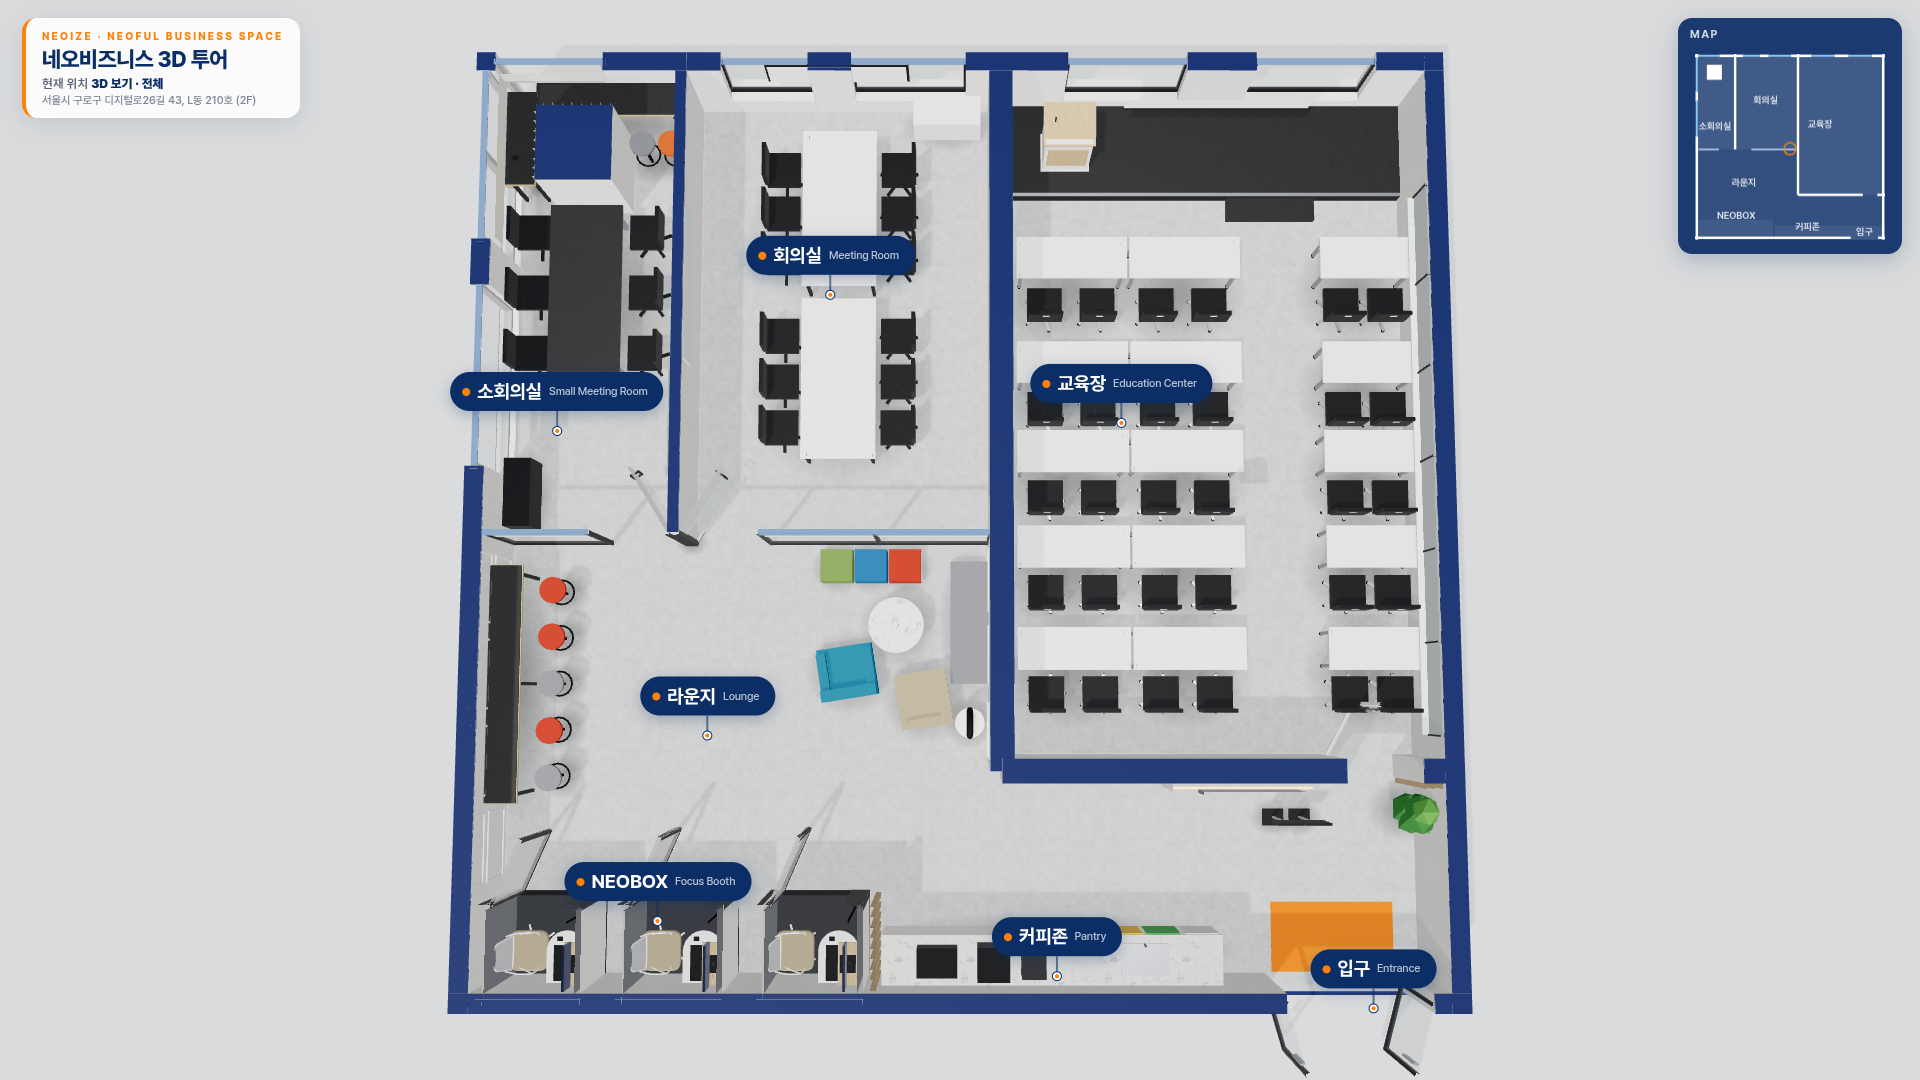
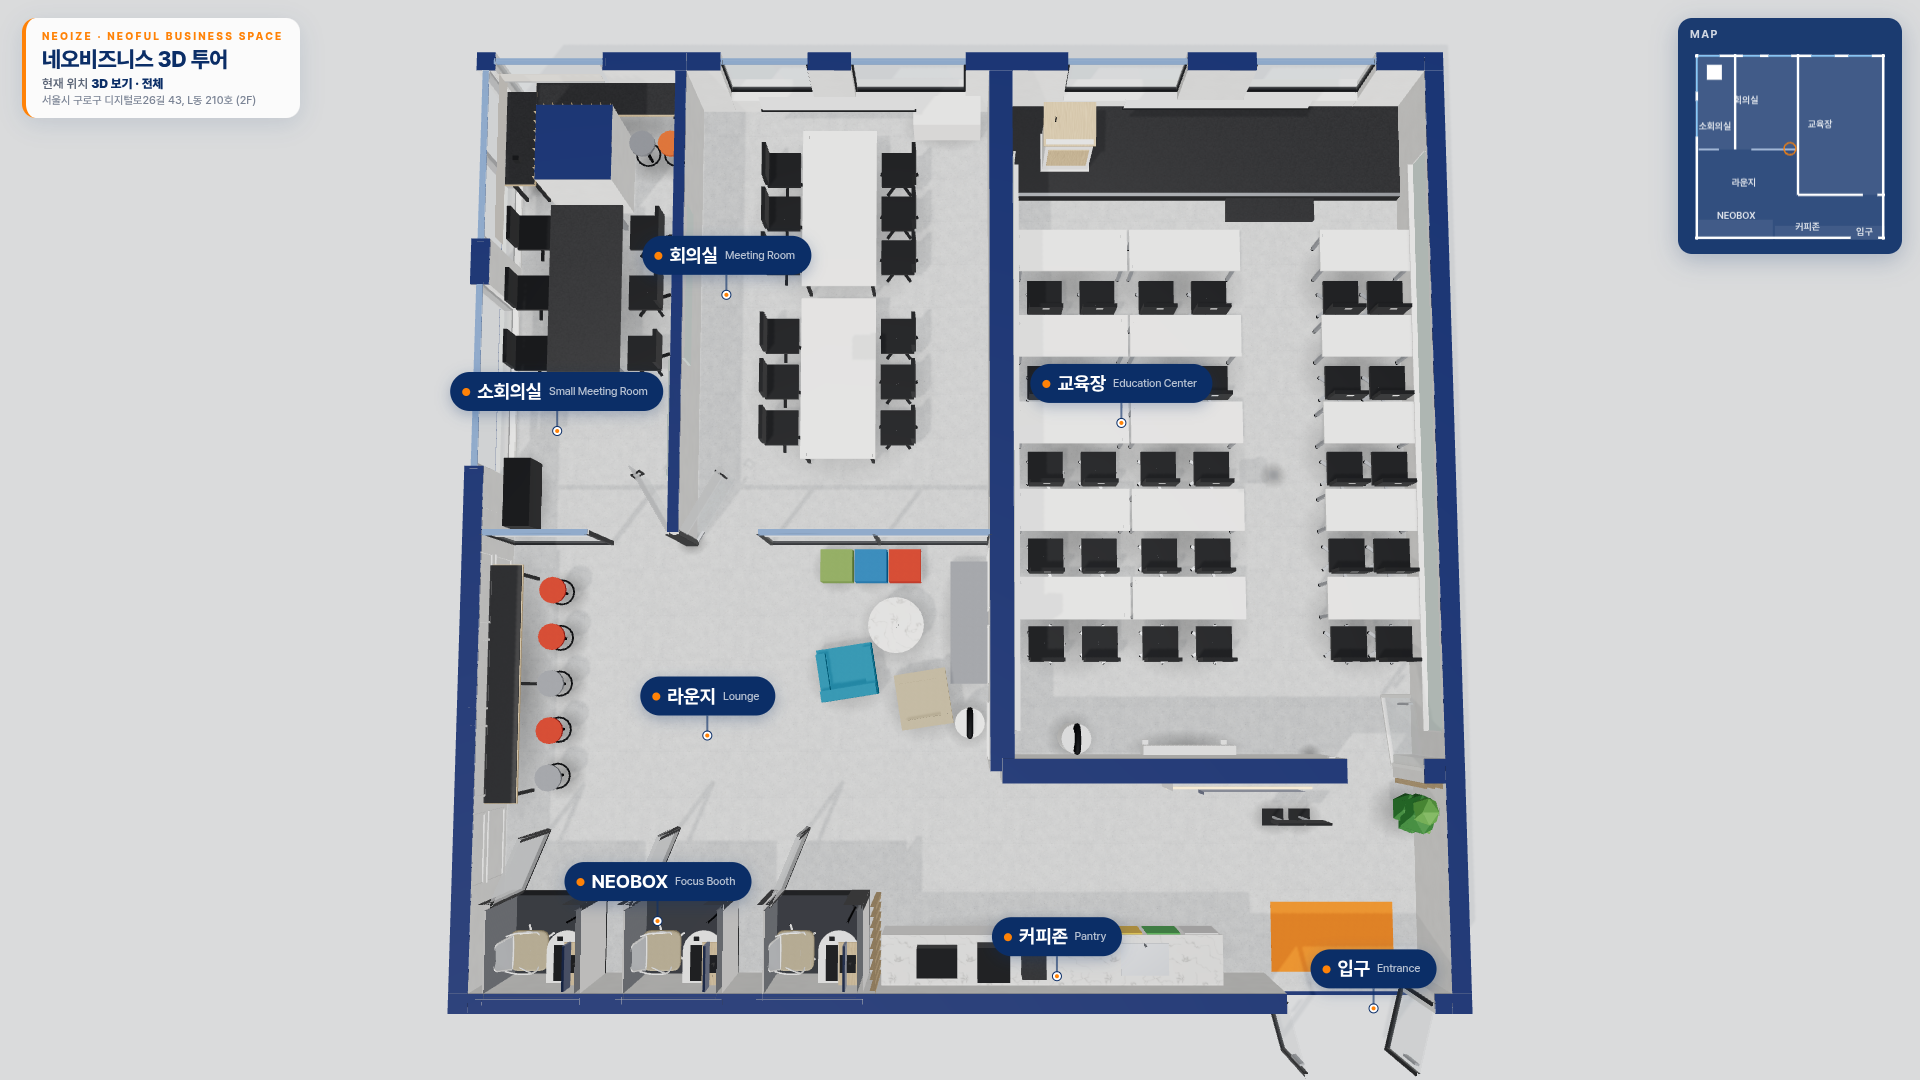
교육장 뒤쪽 벽(시계·유도등·히터·청정기), 양쪽 유리 화이트보드, 문 열림 공간 확보

diff --git a/layout.js b/layout.js
@@ -126,7 +126,7 @@ window.LAYOUT = {
       openings:[ { at:2.70, width:1.0, door:'frameless', hinge:'start', swing:63 } ] },   // 회의실 앞 통유리 3장(문 1 + 고정 2, 문은 서쪽 끝)
     // bay = 유리 한 장의 대략 폭(m). 구간 길이 ÷ bay 를 반올림한 수만큼 유리가 나뉘어요.
     { from:[6.75, 9.18], to:[12.45, 9.18], type:'solid', t:0.30, sign:{ text:'EDUCATION CENTER', at:11.475, y:2.33, size:0.1 },   // 문 위 사인
-      openings:[ { at:11.0, width:0.95, door:'glass', frame:'white', hinge:'start', swing:66 } ] }  // 교육장 출입문(남쪽 벽 동쪽 끝, 오른쪽에 슬랫 자리 남김)
+      openings:[ { at:11.0, width:0.95, door:'glass', frame:'white', hinge:'end', swing:-88 } ] }  // 교육장 출입문(남쪽 벽 동쪽 끝). 경첩은 동쪽, 교육장 안으로 88° 열려 동쪽 벽 쪽에 붙음 → 통로 쪽 길을 막지 않음
   ],
 
   /* 벽 블록(소회의실 안 흰 정사각형) 같은 기둥: rect = [x1,z1,x2,z2], slats = 우드 슬랫을 붙일 면 */
@@ -175,7 +175,7 @@ window.LAYOUT = {
   speakers: [
     { x:7.12,  z:0.36, rot:200 },   // 앞벽(북쪽) 왼쪽 모서리, 방 안쪽으로 살짝
     { x:12.0,  z:0.36, rot:160 },   // 앞벽(북쪽) 오른쪽 모서리
-    { x:7.02,  z:5.0,  rot:-90 },   // 서쪽 벽 가운데
+    { x:7.02,  z:7.6,  rot:-90 },   // 서쪽 벽 뒤쪽 (단상에서 본 사진)
     { x:12.09, z:5.0,  rot:90 }     // 동쪽 벽 가운데
   ],
 
@@ -204,12 +204,19 @@ window.LAYOUT = {
     // 천장 매입형 전동 스크린: 북쪽 벽·창문에서 약 0.4m 앞 천장에서 내려옴 (2.4 × 1.45m, 단상·방 가운데)
     { type:'ceilingScreen', x:9.555, z:0.64, w:2.4, h:1.45 },
     { type:'podium', x:7.65, z:0.9, w:0.62, d:0.48, rot:180, elev:0.2 },   // 발표용 강연대 — 단상 왼쪽 (x7.2–8.1, z0.6–1.2)
-    { type:'whiteboard', x:6.92, z:5.2, w:6.6, rot:-90 },                   // 서쪽 벽 유리 화이트보드
-    { type:'whiteboard', x:12.19, z:5.25, w:7.0, rot:90, style:'mirror' },  // 동쪽 벽 유리 패널 + 선반
-    // 수강 책상 5줄: 붙은 책상 2개 | 통로 x9.92–10.98 | 동쪽 벽 쪽 1개. 책상마다 의자 2개(총 30석), 의자는 단상(북쪽)을 바라봄
-    { type:'array', xs:[7.70],   zs:[2.5, 3.9, 5.08, 6.33, 7.65], item:{ type:'deskPair', w:1.46, d:0.55, chairs:2, casters:true, tag:true, chairBase:'silver' } },   // x6.97–8.43
-    { type:'array', xs:[9.19],   zs:[2.5, 3.9, 5.08, 6.33, 7.65], item:{ type:'deskPair', w:1.46, d:0.55, chairs:2, casters:true, tag:true, chairBase:'silver' } },   // x8.46–9.92
-    { type:'array', xs:[11.595], zs:[2.5, 3.9, 5.08, 6.33, 7.65], item:{ type:'deskPair', w:1.23, d:0.55, chairs:2, casters:true, tag:true, chairBase:'silver' } },   // x10.98–12.21(동쪽 벽 안쪽 면)
+    { type:'whiteboard', x:6.92, z:5.0, w:7.4, rot:-90, style:'glass' },   // 서쪽 벽 연두 유리 화이트보드 0.9~2.1m + 레지
+    { type:'whiteboard', x:12.19, z:5.0, w:7.4, rot:90, style:'glass' },   // 동쪽 벽도 같은 연두 유리 화이트보드 (단상에서 본 사진 11/19)
+    // 수강 책상 5줄(간격 1.15m — 맨 뒷줄 의자 등받이 z≈7.8, 교육장 문 열림 반경(경첩 x11.0, 0.95m → z≈8.2) 밖): 붙은 책상 2개 | 통로 x9.92–10.98 | 동쪽 벽 쪽 1개. 책상마다 의자 2개(총 30석), 의자는 단상(북쪽)을 바라봄
+    { type:'array', xs:[7.70],   zs:[2.4, 3.55, 4.7, 5.85, 7.0], item:{ type:'deskPair', w:1.46, d:0.55, chairs:2, casters:true, tag:true, chairBase:'silver' } },   // x6.97–8.43
+    { type:'array', xs:[9.19],   zs:[2.4, 3.55, 4.7, 5.85, 7.0], item:{ type:'deskPair', w:1.46, d:0.55, chairs:2, casters:true, tag:true, chairBase:'silver' } },   // x8.46–9.92
+    { type:'array', xs:[11.595], zs:[2.4, 3.55, 4.7, 5.85, 7.0], item:{ type:'deskPair', w:1.23, d:0.55, chairs:2, casters:true, tag:true, chairBase:'silver' } },   // x10.98–12.21(동쪽 벽 안쪽 면)
+    // 교육장 뒤쪽 벽(남쪽, 안쪽 면 z9.03) — 단상에서 문을 본 사진(11/19)
+    { type:'clock', x:9.55, z:9.03, y:2.1 },                              // 둥근 벽시계
+    { type:'exitSign', x:11.475, z:9.03, y:2.2 },                         // 문 위 비상구 유도등
+    { type:'block', x:10.86, z:9.02, w:0.08, d:0.02, h:0.12, y:1.15, color:'white' },   // 문 옆 키패드/스위치
+    { type:'heater', x:9.2, z:8.96, w:1.2, h:0.5 },                       // 저상형 히터
+    { type:'purifier', x:7.7, z:8.8 },                                    // 공기청정기(라운지와 같은 모델)
+    { type:'block', x:10.45, z:5.3, w:0.12, d:0.12, h:0.006, color:'metal' },   // 바닥 콘센트 커버
     // 교육장 입구(라운지 쪽): 문 왼쪽 백라이트 TV 패널 + 배너, 오른쪽 슬랫 + 화분
     { type:'tvWall', x:9.85, z:9.38, w:2.0, rot:180 },
     { type:'signStand', x:10.35, z:9.85 },

diff --git a/app.js b/app.js
@@ -5,7 +5,7 @@ import { OrbitControls } from 'three/addons/OrbitControls.js';
 import { CSS2DRenderer, CSS2DObject } from 'three/addons/CSS2DRenderer.js';
 import { RoomEnvironment } from 'three/addons/RoomEnvironment.js';
 import { mergeGeometries } from 'three/addons/BufferGeometryUtils.js';
-import { makeTextures, textTexture } from './textures.js?v=11191030';
+import { makeTextures, textTexture } from './textures.js?v=11191050';
 
 const L = window.LAYOUT, B = L.building, H = B.ceiling, EYE = B.eye || 1.6, W = B.width, D = B.depth;
 const TW = Object.assign({ exterior: 0.24, interior: 0.14, thick: 0.3 }, B.wall || {});
@@ -437,7 +437,39 @@ function whiteboard(g, o) {
     box(w, 0.025, 0.035, M.frame, 0, y1, -0.008, g);
     box(w, 0.03, 0.1, M.white, 0, y0 - 0.03, -0.04, g); return;   // 선반(레지)
   }
+  if (o.style === 'glass') {   // 연두빛 유리 화이트보드(벽 길이 거의 전체) + 하부 레지 (교육장 양쪽 벽, 사진)
+    const w = o.w || 2, y0 = o.y0 ?? 0.9, y1 = o.y1 ?? 2.1;
+    box(w, y1 - y0, 0.02, M.mint, 0, y0, 0, g);
+    box(w + 0.02, 0.015, 0.03, M.white, 0, y1, -0.005, g); box(0.015, y1 - y0, 0.03, M.white, -w / 2, y0, -0.005, g); box(0.015, y1 - y0, 0.03, M.white, w / 2, y0, -0.005, g);
+    box(w, 0.025, 0.08, M.white, 0, y0 - 0.025, -0.035, g); return;   // 레지(마커 받침)
+  }
   box(o.w || 2, 1.05, 0.04, M.mint, 0, 0.95, 0, g);
+}
+// 벽시계: 검은 테두리 + 흰 판 + 바늘 (앞면 = 로컬 -z)
+function wallClock(g, o) {
+  const r = o.r || 0.17, y = o.y || 2.1;
+  const rim = new THREE.Mesh(new THREE.TorusGeometry(r, 0.018, 10, 36), M.black); rim.position.set(0, y, -0.03); g.add(rim);
+  const face = cyl(r, r, 0.03, M.white, 0, 0, 0, 36, g); face.rotation.x = Math.PI / 2; face.position.set(0, y, -0.02);
+  const hh = box(0.012, r * 0.55, 0.006, M.black, 0, 0, 0, g); hh.position.set(0.03, y + 0.02, -0.04); hh.rotation.z = -0.9;
+  const mh = box(0.008, r * 0.8, 0.006, M.black, 0, 0, 0, g); mh.position.set(-0.02, y + 0.06, -0.042); mh.rotation.z = 0.35;
+  g.userData.noBlob = true; g.userData.noCollide = true;
+}
+// 비상구 유도등 (초록, 문 위)
+function exitSign(g, o) {
+  const c = document.createElement('canvas'); c.width = 256; c.height = 96; const x = c.getContext('2d');
+  x.fillStyle = '#12a150'; x.fillRect(0, 0, 256, 96); x.fillStyle = '#fff'; x.font = '700 40px Pretendard, sans-serif'; x.textAlign = 'center'; x.textBaseline = 'middle'; x.fillText('비상구', 150, 40); x.font = '600 22px Pretendard, sans-serif'; x.fillText('EXIT', 150, 76);
+  x.beginPath(); x.arc(46, 30, 9, 0, 7); x.fill(); x.fillRect(38, 42, 16, 30);
+  const t = new THREE.CanvasTexture(c); t.colorSpace = THREE.SRGBColorSpace;
+  box(0.36, 0.14, 0.04, M.white, 0, o.y || 2.25, 0, g);
+  const pl = new THREE.Mesh(new THREE.PlaneGeometry(0.34, 0.125), new THREE.MeshBasicMaterial({ map: t })); pl.position.set(0, (o.y || 2.25) + 0.07, -0.021); pl.rotation.y = Math.PI; g.add(pl);
+  g.userData.noBlob = true; g.userData.noCollide = true;
+}
+// 벽걸이 저상형 히터(다리 있음)
+function heater(g, o) {
+  const w = o.w || 1.2, h = o.h || 0.5, d = o.d || 0.12;
+  box(w, h - 0.12, d, M.white, 0, 0.12, 0, g);
+  for (let i = 0; i < Math.round(w / 0.06); i++) box(0.012, h - 0.2, 0.005, M.paint, -w / 2 + 0.04 + i * 0.06, 0.16, -d / 2 - 0.002, g);
+  for (const xx of [-w / 2 + 0.08, w / 2 - 0.08]) { box(0.04, 0.12, 0.08, M.white, xx, 0, 0, g); box(0.08, 0.015, 0.2, M.white, xx, 0, -0.02, g); }
 }
 // 천장 매입형 전동 스크린: 천장 슬롯(흰 하우징)에서 흰 막이 내려오고 아래에 얇은 검은 바. 벽에서 떨어져(앞으로) 매달림
 function ceilingScreen(g, o) {   // box(.., y) 의 y 는 아래 끝 높이
@@ -536,8 +568,8 @@ function slats(o) {   // from → to 선을 따라 세로 우드 루버
   if (o.thick) box(horiz ? Math.abs(bx - ax) + 0.1 : 0.08, 0.04, horiz ? 0.08 : Math.abs(bz - az) + 0.1, M.oak, (ax + bx) / 2, h, (az + bz) / 2, g);
   g.userData.noBlob = true; return g;
 }
-const BUILDERS = { stage, podium, block, chair, stool, armchair, cube, roundTable, plant, desk, deskPair, tableSet, whiteboard, screen, ceilingScreen, speaker, tvStand, tvWall, signStand, bench, cabinet, barCounter, purifier, mat, booth, pantry };
-const NOBLOB = new Set(['stage', 'whiteboard', 'screen', 'ceilingScreen', 'tvWall', 'mat', 'slats', 'booth']);
+const BUILDERS = { stage, podium, block, chair, stool, armchair, cube, roundTable, plant, desk, deskPair, tableSet, whiteboard, screen, ceilingScreen, speaker, clock: wallClock, exitSign, heater, tvStand, tvWall, signStand, bench, cabinet, barCounter, purifier, mat, booth, pantry };
+const NOBLOB = new Set(['clock', 'exitSign', 'stage', 'whiteboard', 'screen', 'ceilingScreen', 'tvWall', 'mat', 'slats', 'booth']);
 const blobs = [];
 function place(o) {
   if (o.type === 'array') {

diff --git a/index.html b/index.html
@@ -131,8 +131,8 @@ body.shot #doorPrompt{font-size:22px;padding:12px 22px 12px 14px}body.shot #door
   </div>
 </aside>
 <!-- 공간 설정: 치수·가구 배치는 layout.js 에서 수정 -->
-<script src="layout.js?v=11191030"></script>
+<script src="layout.js?v=11191050"></script>
 <script type="importmap">{"imports":{"three":"./lib/three.module.min.js","three/addons/":"./lib/addons/"}}</script>
-<script type="module" src="app.js?v=11191030"></script>
+<script type="module" src="app.js?v=11191050"></script>
 </body>
 </html>

diff --git a/수정방법.md b/수정방법.md
@@ -174,6 +174,9 @@ openings:[
 | `block` | 단순 박스(소품) | w, d, h, y, color |
 | `whiteboard` | 벽걸이 글라스 보드 | w, rot(보드 앞면 방향) |
 | `screen` | 벽걸이 프로젝터 스크린 | w, rot |
+| `clock` | 둥근 벽시계(앞면 = 북쪽, rot 로 방향) | y(높이), r |
+| `exitSign` | 초록 비상구 유도등 | y |
+| `heater` | 저상형 벽 히터(다리 있음) | w, h, d |
 | `ceilingScreen` | 천장 매입형 전동 스크린(천장 슬롯에서 내려오는 흰 막 + 아래 검은 바). 벽·창문에서 떨어진 위치(z)에 두면 뒤로 창문이 보여요 | w(가로, 기본 2.4), h(내려온 길이, 기본 1.45) |
 | `speaker` | 벽걸이 박스 스피커 — 보통 `speakers` 목록에 씀 | rot, tilt, w, h, d, top |
 | `tvStand` | 이동식 TV | rot |
@@ -262,3 +265,5 @@ ceiling: { panels:[ { rect:[x1,z1,x2,z2], nx:2, nz:3 } ],  aircon:[[x,z], ...] }
 ## 천장 스크린 (furniture → ceilingScreen)
 - `{ type:'ceilingScreen', x:9.555, z:0.64, w:2.4, h:1.45 }` — 북쪽 벽 안쪽 면(z0.24)에서 0.4m 앞 천장에서 내려와요.
 - 천장 2.7m 기준으로 h 1.45m 이면 아래 바가 바닥에서 약 1.15m(단상 위 약 0.95m)예요. h 를 키우면 더 내려와요.
+- `whiteboard` 에 `style:'glass'` 를 주면 연두 유리 화이트보드(0.9~2.1m, `y0`·`y1` 로 변경) + 하부 레지가 돼요.
+- 교육장 책상 줄(zs)을 뒤로 늘리면 문 열림 반경(경첩 x11.95, 반지름 0.95m, z≈8.2까지)과 겹치지 않는지 확인하세요.
